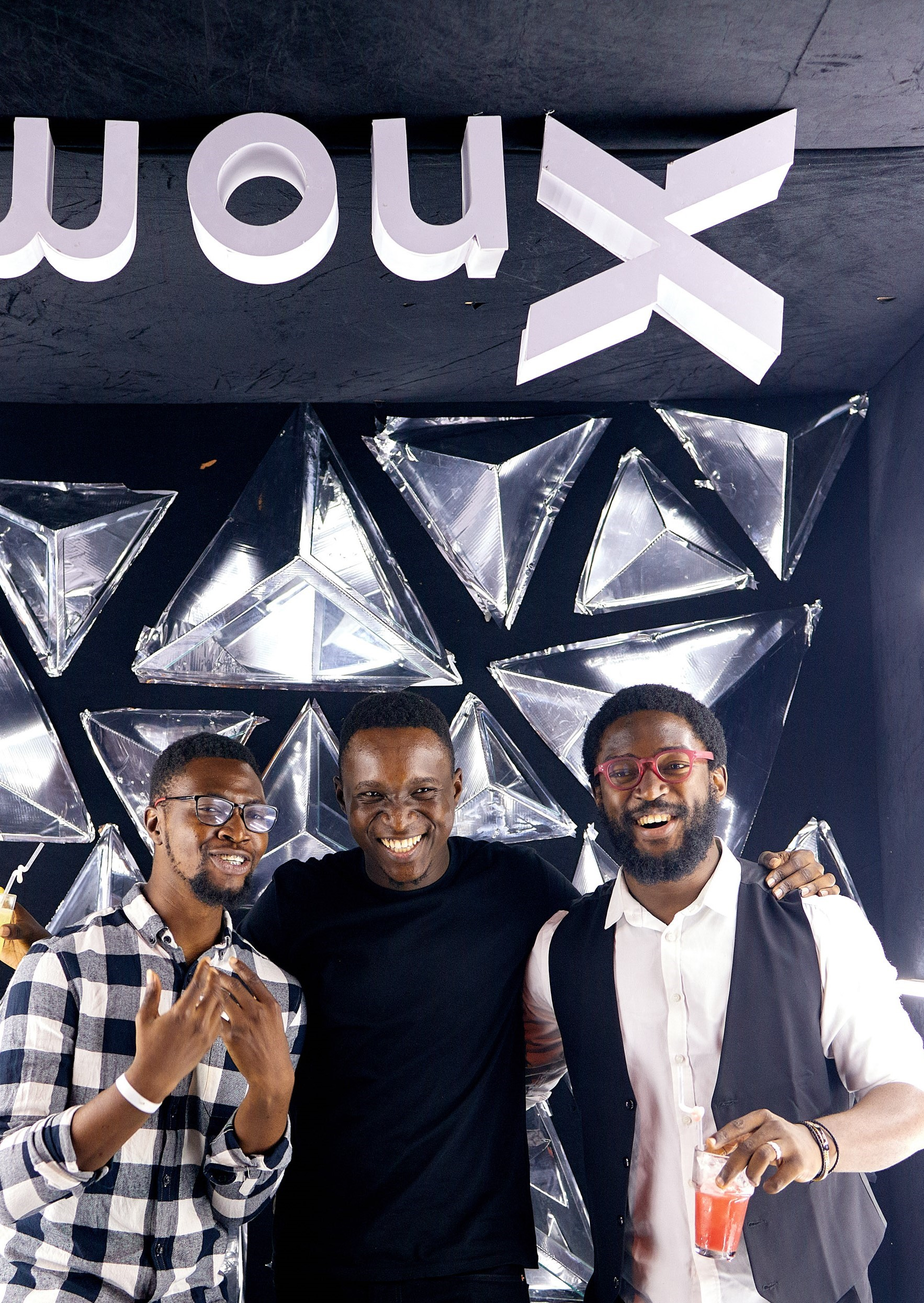
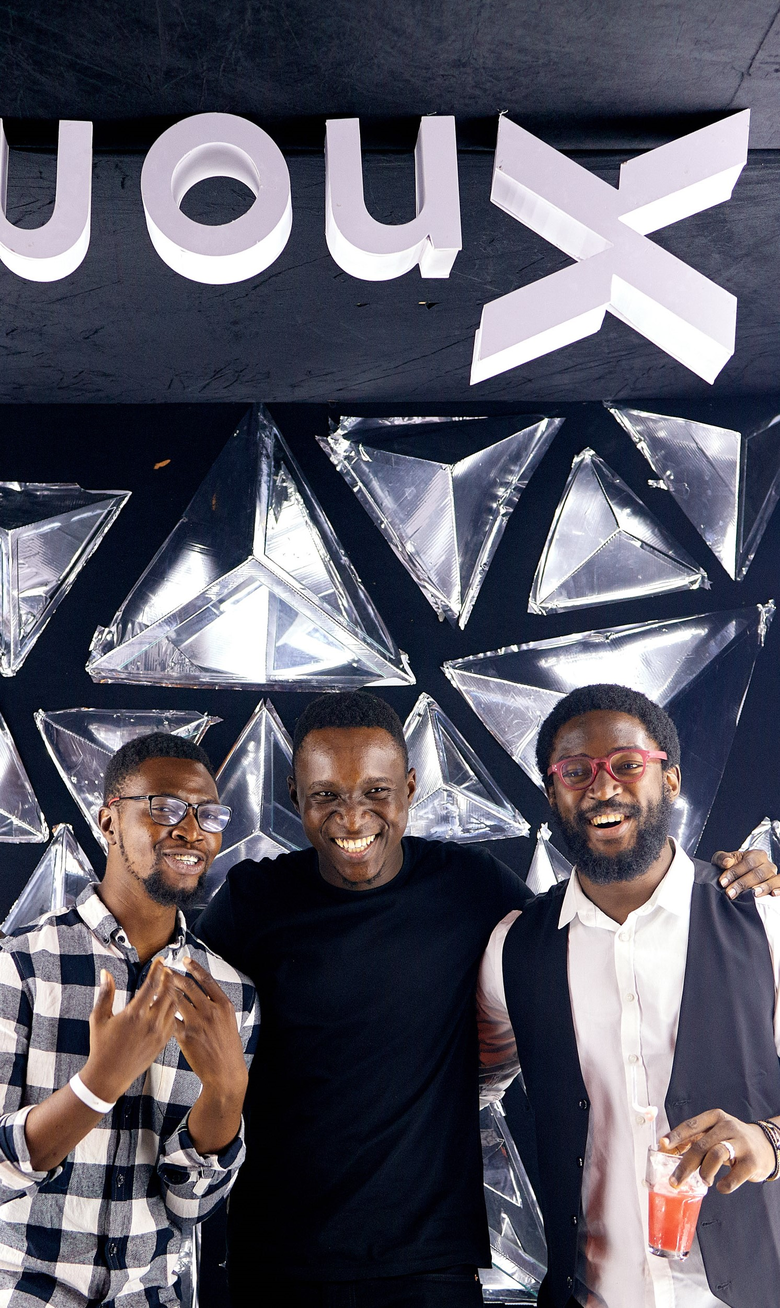
shuffle hero section images

diff --git a/src/config/careers.js b/src/config/careers.js
@@ -1,5 +1,14 @@
-import { StaticImage } from "gatsby-plugin-image";
 import React from "react";
+import ctl from "@netlify/classnames-template-literals";
+
+import { StaticImage } from "gatsby-plugin-image";
+
+const heroImageStyle = ctl(`
+  hover:scale-105
+  rounded-[5px]
+  duration-500
+  transition
+`);
 
 export const careersTestimonials = [
   {
@@ -58,58 +67,58 @@ export const heroSectionData = {
     (<StaticImage
       alt="Three Smiling Guys"
       src="../assets/images/jpegs/careers/hero/hero-image-1.jpeg"
-      className="rounded-[5px]"
+      className={heroImageStyle}
       loading="lazy"
-      height={488}
-      width={342}
+      height={504}
+      width={300}
     />),
     (<StaticImage
       alt="Large Group Of Staff"
       src="../assets/images/jpegs/careers/hero/hero-image-2.jpeg"
-      className="rounded-[5px]"
+      className={heroImageStyle}
       loading="lazy"
       height={240}
-      width={515}
+      width={400}
     />),
     (<StaticImage
       alt="Five Smiling Ladies"
       src="../assets/images/jpegs/careers/hero/hero-image-3.jpeg"
-      className="rounded-[5px]"
+      className={heroImageStyle}
       loading="lazy"
-      height={228}
-      width={515}
+      height={240}
+      width={400}
     />),
     (<StaticImage
       alt="Two Smiling Guys"
       src="../assets/images/jpegs/careers/hero/hero-image-4.jpeg"
-      className="rounded-[5px]"
+      className={heroImageStyle}
       loading="lazy"
       height={240}
-      width={161}
+      width={180}
     />),
     (<StaticImage
       alt="Lady Showing Peace Sign"
       src="../assets/images/jpegs/careers/hero/hero-image-5.jpeg"
-      className="rounded-[5px]"
+      className={heroImageStyle}
       loading="lazy"
       height={240}
-      width={161}
+      width={180}
     />),
     (<StaticImage
       alt="Smiling Guy And Lady"
       src="../assets/images/jpegs/careers/hero/hero-image-6.png"
-      className="rounded-[5px]"
+      className={heroImageStyle}
       loading="lazy"
-      height={228}
-      width={342}
+      height={240}
+      width={380}
     />),
     (<StaticImage
       alt="Two Smiling Ladies"
       src="../assets/images/jpegs/careers/hero/hero-image-7.png"
-      className="rounded-[5px]"
+      className={heroImageStyle}
       loading="lazy"
-      height={488}
-      width={181}
+      height={504}
+      width={300}
     />),
   ],
 };

diff --git a/src/templates/careers/index/hero/hero.jsx b/src/templates/careers/index/hero/hero.jsx
@@ -1,4 +1,4 @@
-import React, { useContext } from "react";
+import React, { useContext, useEffect, useState } from "react";
 import ctl from "@netlify/classnames-template-literals";
 
 import { Button, NLink, Ntext } from "components";
@@ -7,6 +7,18 @@ import { AppContext } from "states/context";
 
 const CareersPageHero = () => {
   const { availableRoles } = useContext(AppContext);
+
+  const [pictureIndex, setPictureIndex] = useState(0);
+
+  useEffect(() => {
+    const switcher = setInterval(() => {
+      setPictureIndex(1 - pictureIndex);
+    }, 4096);
+
+    return () => {
+      clearInterval(switcher);
+    };
+  });
 
   const { intro, images } = heroSectionData;
 
@@ -41,19 +53,19 @@ const CareersPageHero = () => {
         />
       </section>
       <section className={galleryStyle}>
-        {images[0]}
-        <article className="flex flex-col space-y-5">
-          {images[1]}
-          {images[2]}
+        {[images[0], images[6]][pictureIndex]}
+        <article className="flex flex-col space-y-6">
+          {[images[1], images[2]][pictureIndex]}
+          {[images[2], images[1]][pictureIndex]}
         </article>
-        <article className="flex flex-col space-y-5">
+        <article className="flex flex-col space-y-6">
           <article className="flex justify-between lg:space-x-5">
-            {images[3]}
-            {images[4]}
+            {[images[3], images[4]][pictureIndex]}
+            {[images[4], images[3]][pictureIndex]}
           </article>
           {images[5]}
         </article>
-        {images[6]}
+        {[images[6], images[0]][pictureIndex]}
       </section>
     </section>
   );
@@ -87,7 +99,6 @@ const galleryStyle = ctl(`
   lg:space-x-5
   lg:space-y-0
   lg:max-w-[1440px]
-  justify-between
   lg:-bottom-8
   lg:absolute
   lg:mx-auto
